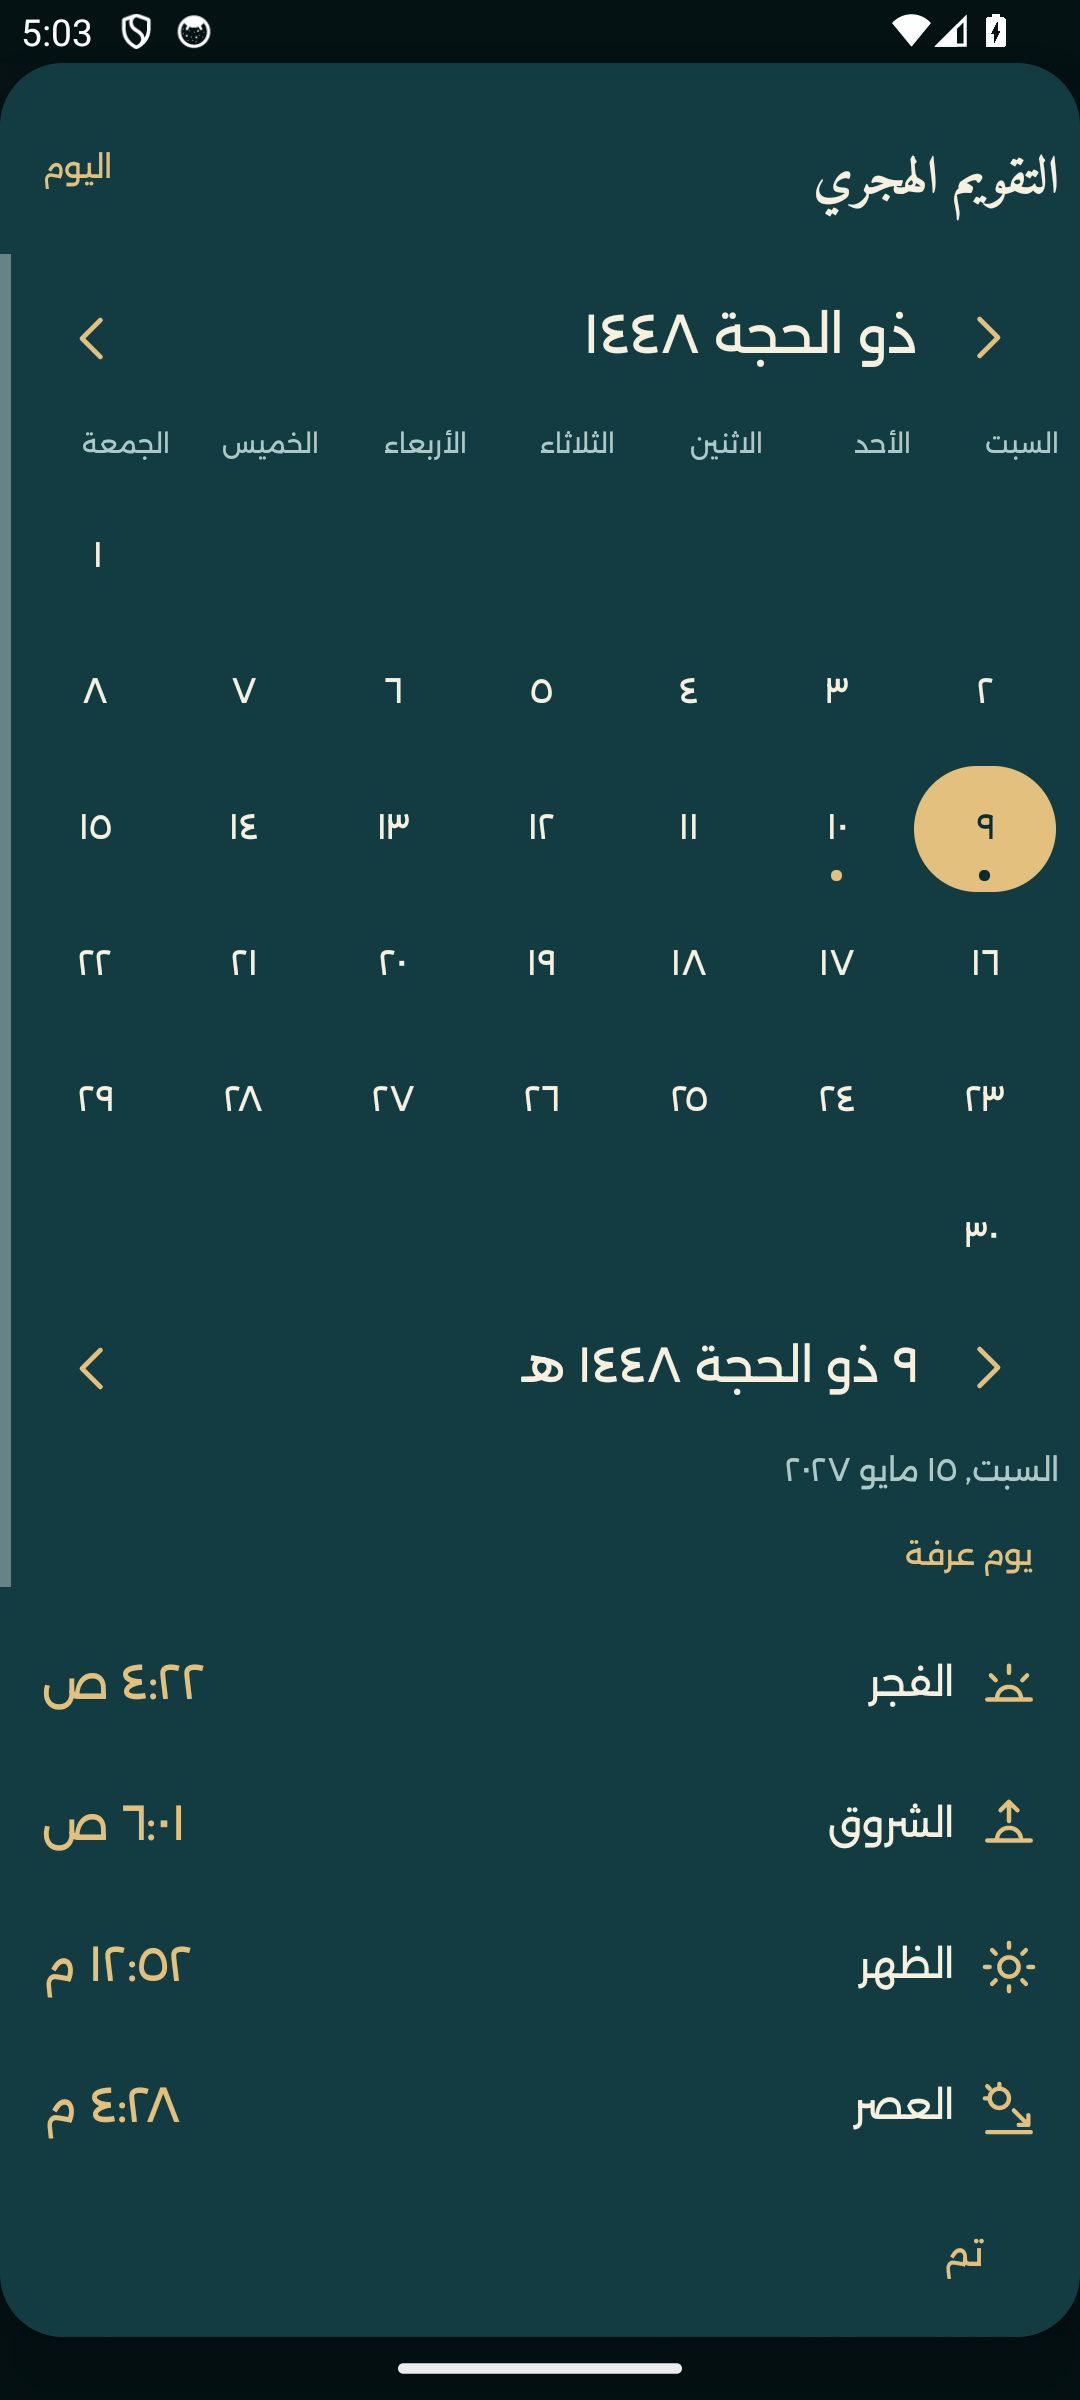
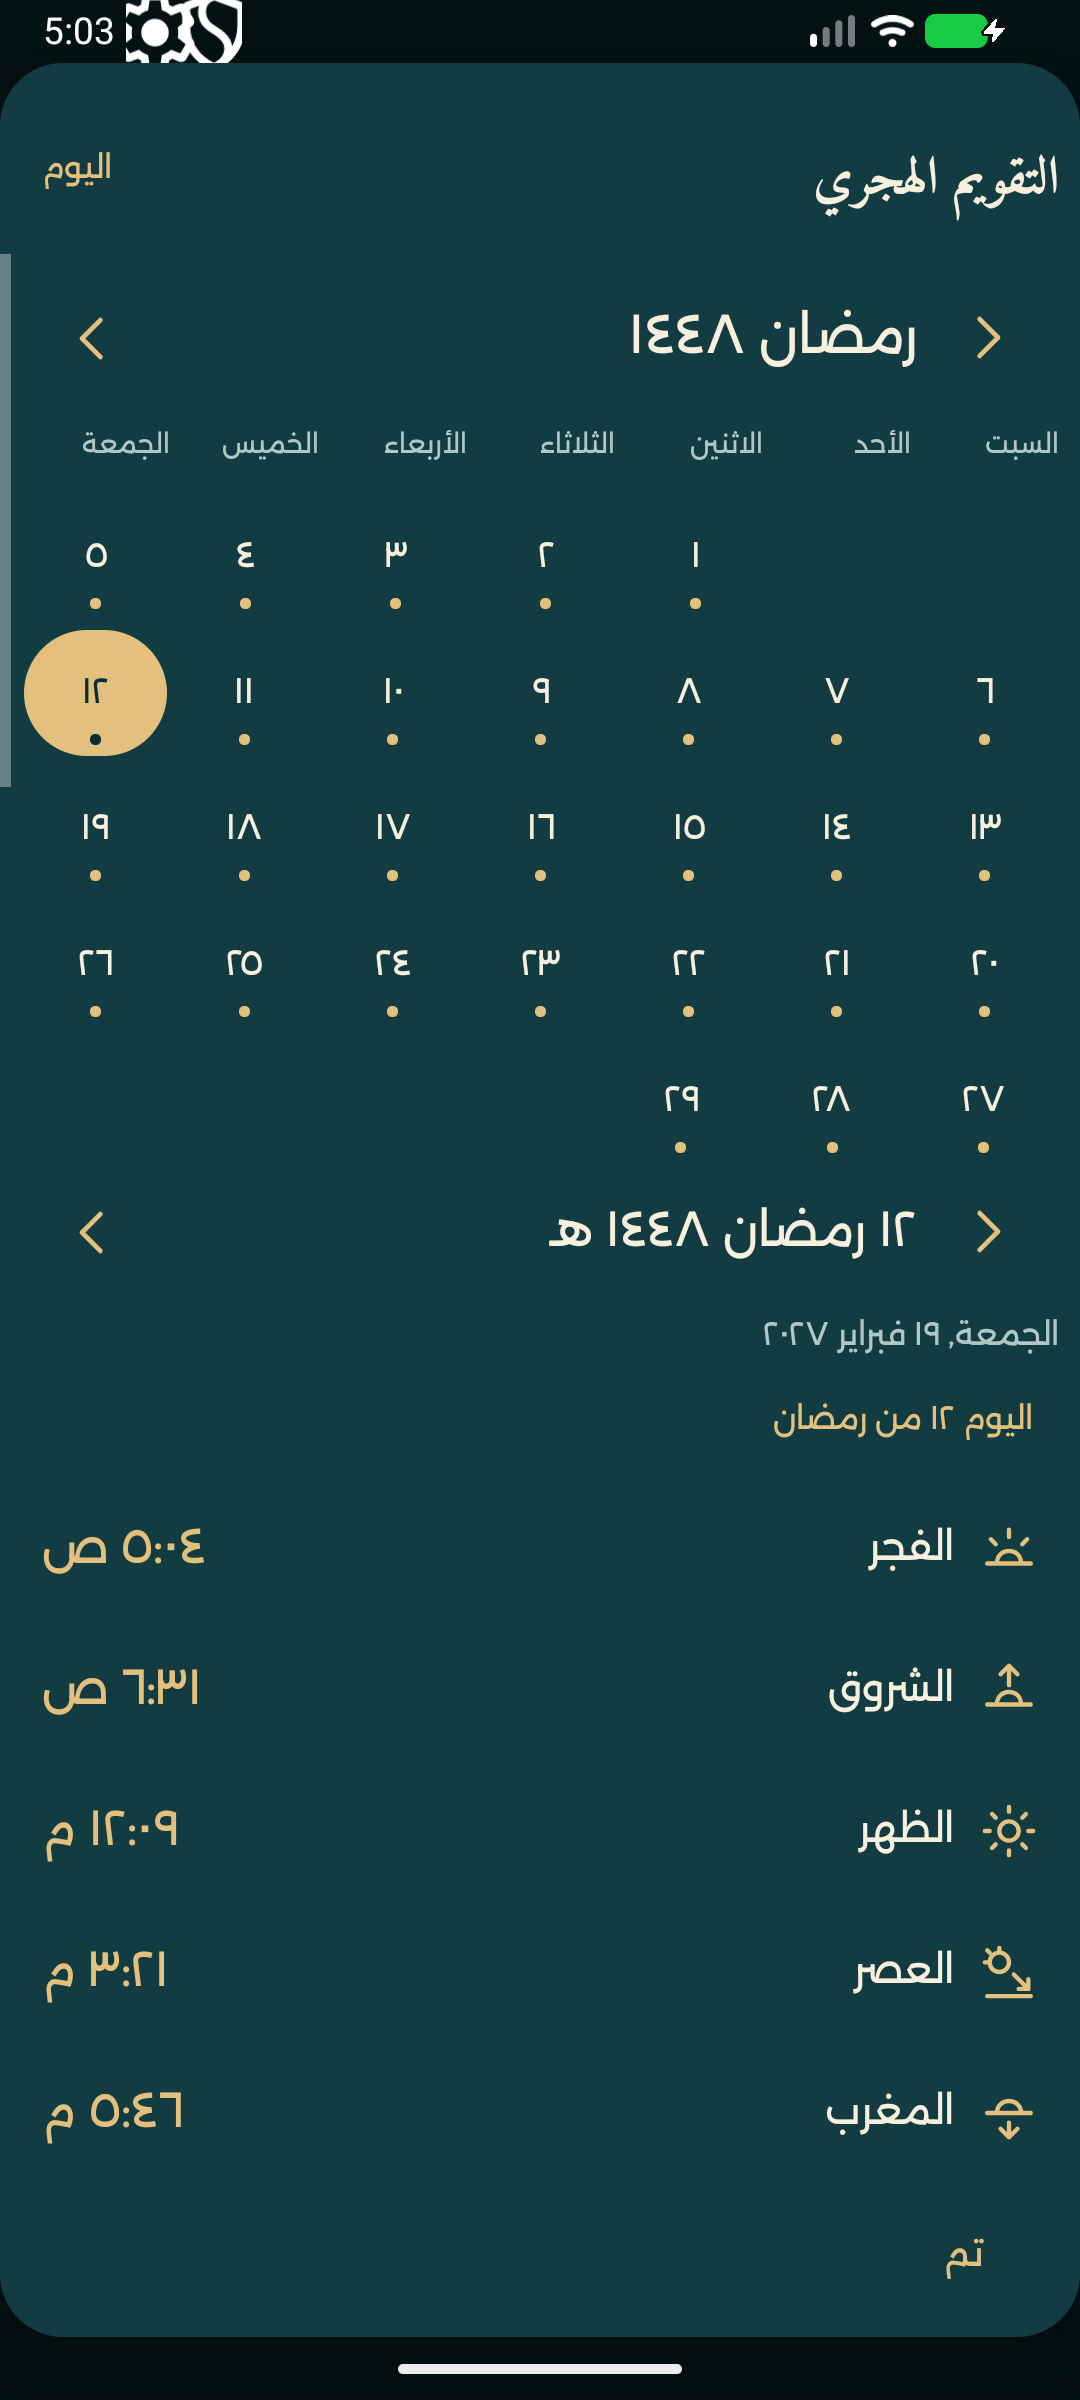
Show the new phone features on the bilingual website

diff --git a/site/src/lib/site.ts b/site/src/lib/site.ts
@@ -1,7 +1,7 @@
 // Every page of the preview: one per TV screen or mode, in Arabic (default, at the root) and English (/en/).
 import type { Lang } from './text';
 export const REPO = 'https://github.com/AbdelrahmanHajjaj/MiqatTV';
-export const RELEASE_TAG = 'v0.7.3';
+export const RELEASE_TAG = 'v0.7.4';
 
 type L = Record<Lang, string>;
 export type Page = {

diff --git a/docs/screenshots/README.md b/docs/screenshots/README.md
@@ -1,6 +1,6 @@
 # Product screenshots
 
-Current set: 22 November 2026. Screenshots show the standalone Android phone,
+Current set: 23 November 2026. Screenshots show the standalone Android phone,
 its TV companion mode, Android TV and LG webOS in English and Arabic. Canonical
 PNGs here are unmodified captures with sanitized Cairo/demo fixtures; they contain
 no real household addresses, credentials, private recordings or pairing QR codes.
@@ -9,7 +9,10 @@ no real household addresses, credentials, private recordings or pairing QR codes
 
 | Files, with `-en.png` / `-ar.png` | Source |
 | --- | --- |
-| `phone-home`, `phone-calendar` | PhoneHomeCheck's completed-Home and Arafah/calendar fixtures. |
+| `phone-home` | PhoneHomeCheck's completed Home fixture. |
+| `phone-calendar` | Ramadan day 12 selected in the native calendar during the v0.7.4 review. |
+| `phone-fasting` | PhoneFastingCheck's day-before, suhoor and iftar settings in the v0.7.4 review. |
+| `phone-radio` | Native Quran Radio popup on Home from the PR #22 review. |
 | `phone-prayer` | PhonePolishCheck's real per-prayer controls. |
 | `phone-voices` | PhoneLibraryCheck's named demonstration audio library. |
 | `phone-location` | PhoneUiCheck's real Location settings. |
@@ -18,9 +21,11 @@ no real household addresses, credentials, private recordings or pairing QR codes
 | `android-home` | Native Android TV Home from the 0.7.2 UI-alignment review. |
 | `lg-home` | LG browser-test's aligned Home capture from the 0.2.30 review. |
 
-Phone captures use Miqat 0.5.18/code 34 on an Android 14/API 34 Google APIs
+Earlier phone captures use Miqat 0.5.18/code 34 on an Android 14/API 34 Google APIs
 emulator at 1080×2400, density 420. Fixtures provide dates, locations, themes,
 audio names, sensor headings and demo TVs.
+Radio, Ramadan and fasting captures use phone 0.5.19/code 35 review builds on the
+Android API 37 emulator at 1080×2400 with Cairo selected.
 
 Android TV 0.7.2/code 13 captures use native Views in a landscape API 34 Google APIs
 emulator at 1920×1080/density 160. Original PNGs include its system navigation

diff --git a/README.md b/README.md
@@ -49,7 +49,7 @@ See the next prayer across the room, hear the Adhan and listen to Quran radio on
 
 | Platform | What it does |
 | --- | --- |
-| Android phone, Android 8+ | Standalone prayers, alerts, calendar, Qibla, widgets and optional TV setup/control. |
+| Android phone, Android 8+ | Prayer times, Adhan, Hijri calendar, fasting reminders, Quran radio, Qibla, widgets and optional TV controls. |
 | Android TV / Google TV | Home launcher with favourite apps and remote navigation. |
 | LG webOS | Prayer times, Adhan and radio alongside embedded HDMI. |
 | Website | Product screenshots and an interactive TV preview with simulated device integration. |
@@ -60,7 +60,7 @@ See the next prayer across the room, hear the Adhan and listen to Quran radio on
 
 ## Install
 
-[Download Miqat](https://github.com/AbdelrahmanHajjaj/MiqatTV/releases/tag/v0.7.3) or [build from source](docs/BUILD.md). Choose the package for your device:
+[Download Miqat](https://github.com/AbdelrahmanHajjaj/MiqatTV/releases/tag/v0.7.4) or [build from source](docs/BUILD.md). Choose the package for your device:
 
 | Package | Purpose |
 | --- | --- |

diff --git a/docs/PHONE.md b/docs/PHONE.md
@@ -6,7 +6,7 @@ TV or account. Prayer calculation and the city catalog work offline.
 
 [Current screenshots](screenshots/README.md) · [Build/install](BUILD.md#android-phone) · [TV setup and pairing](../companion/README.md)
 
-[Download Miqat](https://github.com/AbdelrahmanHajjaj/MiqatTV/releases/tag/v0.7.3).
+[Download Miqat](https://github.com/AbdelrahmanHajjaj/MiqatTV/releases/tag/v0.7.4).
 Replacing an older debug-signed build requires one fresh install; uninstalling
 clears local settings and imported audio. Later signed releases retain the same key.
 
